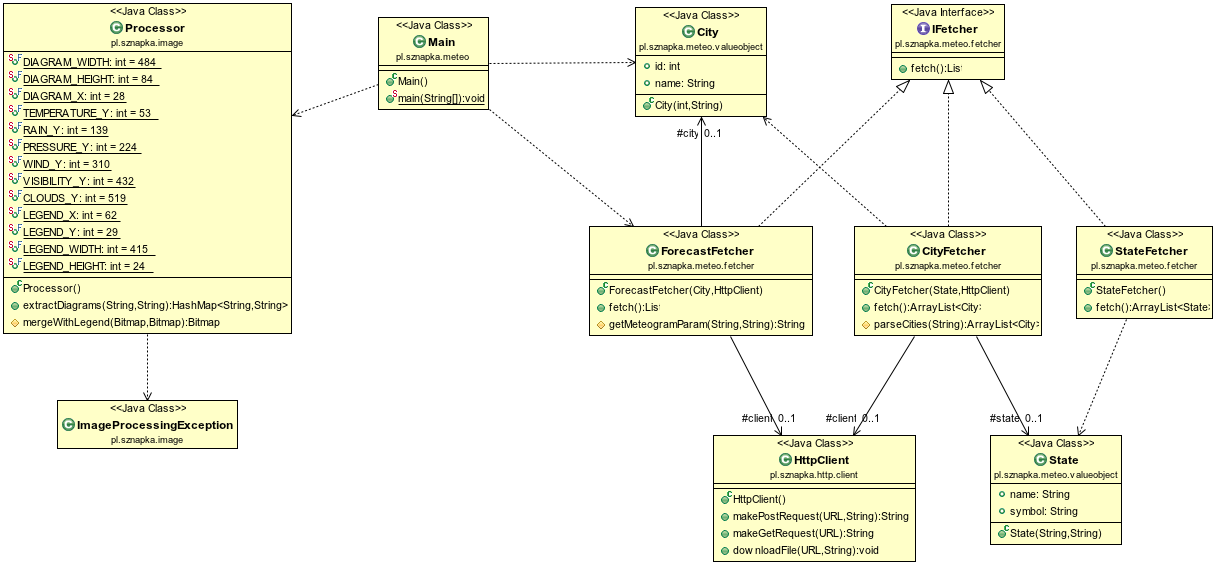
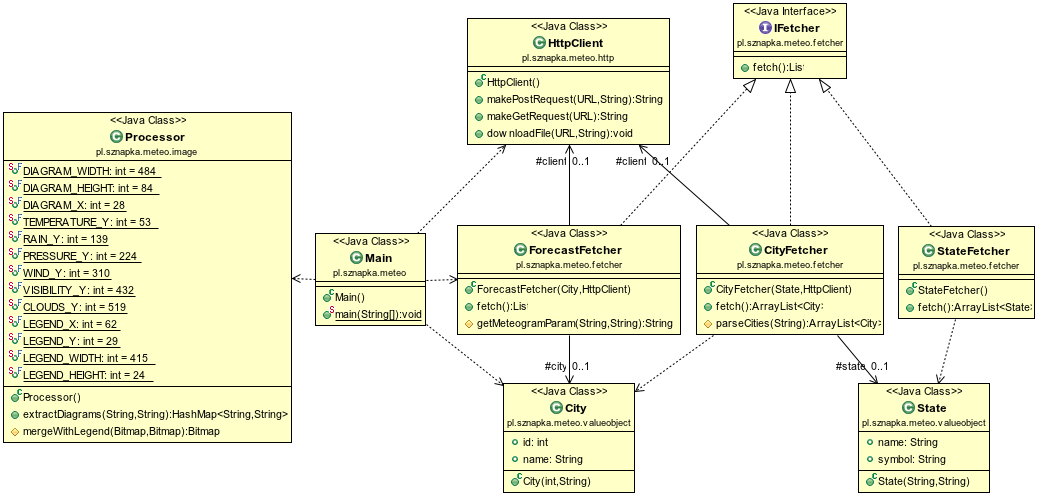
UML adjustments

diff --git a/src/pl/sznapka/meteo/fetcher/ForecastFetcher.java b/src/pl/sznapka/meteo/fetcher/ForecastFetcher.java
@@ -6,8 +6,9 @@ import java.util.ArrayList;
 import java.util.List;
 import java.util.regex.Matcher;
 import java.util.regex.Pattern;
-import pl.sznapka.http.client.HttpClient;
-import pl.sznapka.http.client.HttpClientException;
+
+import pl.sznapka.meteo.http.HttpClient;
+import pl.sznapka.meteo.http.HttpClientException;
 import pl.sznapka.meteo.valueobject.City;
 
 public class ForecastFetcher implements IFetcher {

diff --git a/src/pl/sznapka/meteo/fetcher/CityFetcher.java b/src/pl/sznapka/meteo/fetcher/CityFetcher.java
@@ -6,8 +6,8 @@ import java.util.ArrayList;
 import java.util.regex.Matcher;
 import java.util.regex.Pattern;
 
-import pl.sznapka.http.client.HttpClient;
-import pl.sznapka.http.client.HttpClientException;
+import pl.sznapka.meteo.http.HttpClient;
+import pl.sznapka.meteo.http.HttpClientException;
 import pl.sznapka.meteo.valueobject.City;
 import pl.sznapka.meteo.valueobject.State;
 

diff --git a/src/pl/sznapka/meteo/Main.java b/src/pl/sznapka/meteo/Main.java
@@ -3,9 +3,9 @@ package pl.sznapka.meteo;
 import java.util.ArrayList;
 import java.util.HashMap;
 
-import pl.sznapka.http.client.HttpClient;
-import pl.sznapka.image.Processor;
 import pl.sznapka.meteo.fetcher.ForecastFetcher;
+import pl.sznapka.meteo.http.HttpClient;
+import pl.sznapka.meteo.image.Processor;
 import pl.sznapka.meteo.valueobject.City;
 
 public class Main {

diff --git a/test/CityFetcherTest.java b/test/CityFetcherTest.java
@@ -5,8 +5,8 @@ import java.util.ArrayList;
 
 import org.junit.Test;
 
-import pl.sznapka.http.client.HttpClient;
 import pl.sznapka.meteo.fetcher.CityFetcher;
+import pl.sznapka.meteo.http.HttpClient;
 import pl.sznapka.meteo.valueobject.City;
 import pl.sznapka.meteo.valueobject.State;
 

diff --git a/src/pl/sznapka/meteo/image/Processor.java b/src/pl/sznapka/meteo/image/Processor.java
@@ -1,7 +1,7 @@
 /**
  * 
  */
-package pl.sznapka.image;
+package pl.sznapka.meteo.image;
 
 import java.io.FileOutputStream;
 import java.io.IOException;

diff --git a/src/pl/sznapka/meteo/http/HttpClient.java b/src/pl/sznapka/meteo/http/HttpClient.java
@@ -1,4 +1,4 @@
-package pl.sznapka.http.client;
+package pl.sznapka.meteo.http;
 
 import java.io.BufferedInputStream;
 import java.io.BufferedReader;

diff --git a/src/pl/sznapka/meteo/http/HttpClientException.java b/src/pl/sznapka/meteo/http/HttpClientException.java
@@ -1,4 +1,4 @@
-package pl.sznapka.http.client;
+package pl.sznapka.meteo.http;
 
 public class HttpClientException extends java.lang.Exception {
 

diff --git a/src/pl/sznapka/meteo/image/ImageProcessingException.java b/src/pl/sznapka/meteo/image/ImageProcessingException.java
@@ -1,4 +1,4 @@
-package pl.sznapka.image;
+package pl.sznapka.meteo.image;
 
 public class ImageProcessingException extends Exception {
 	
